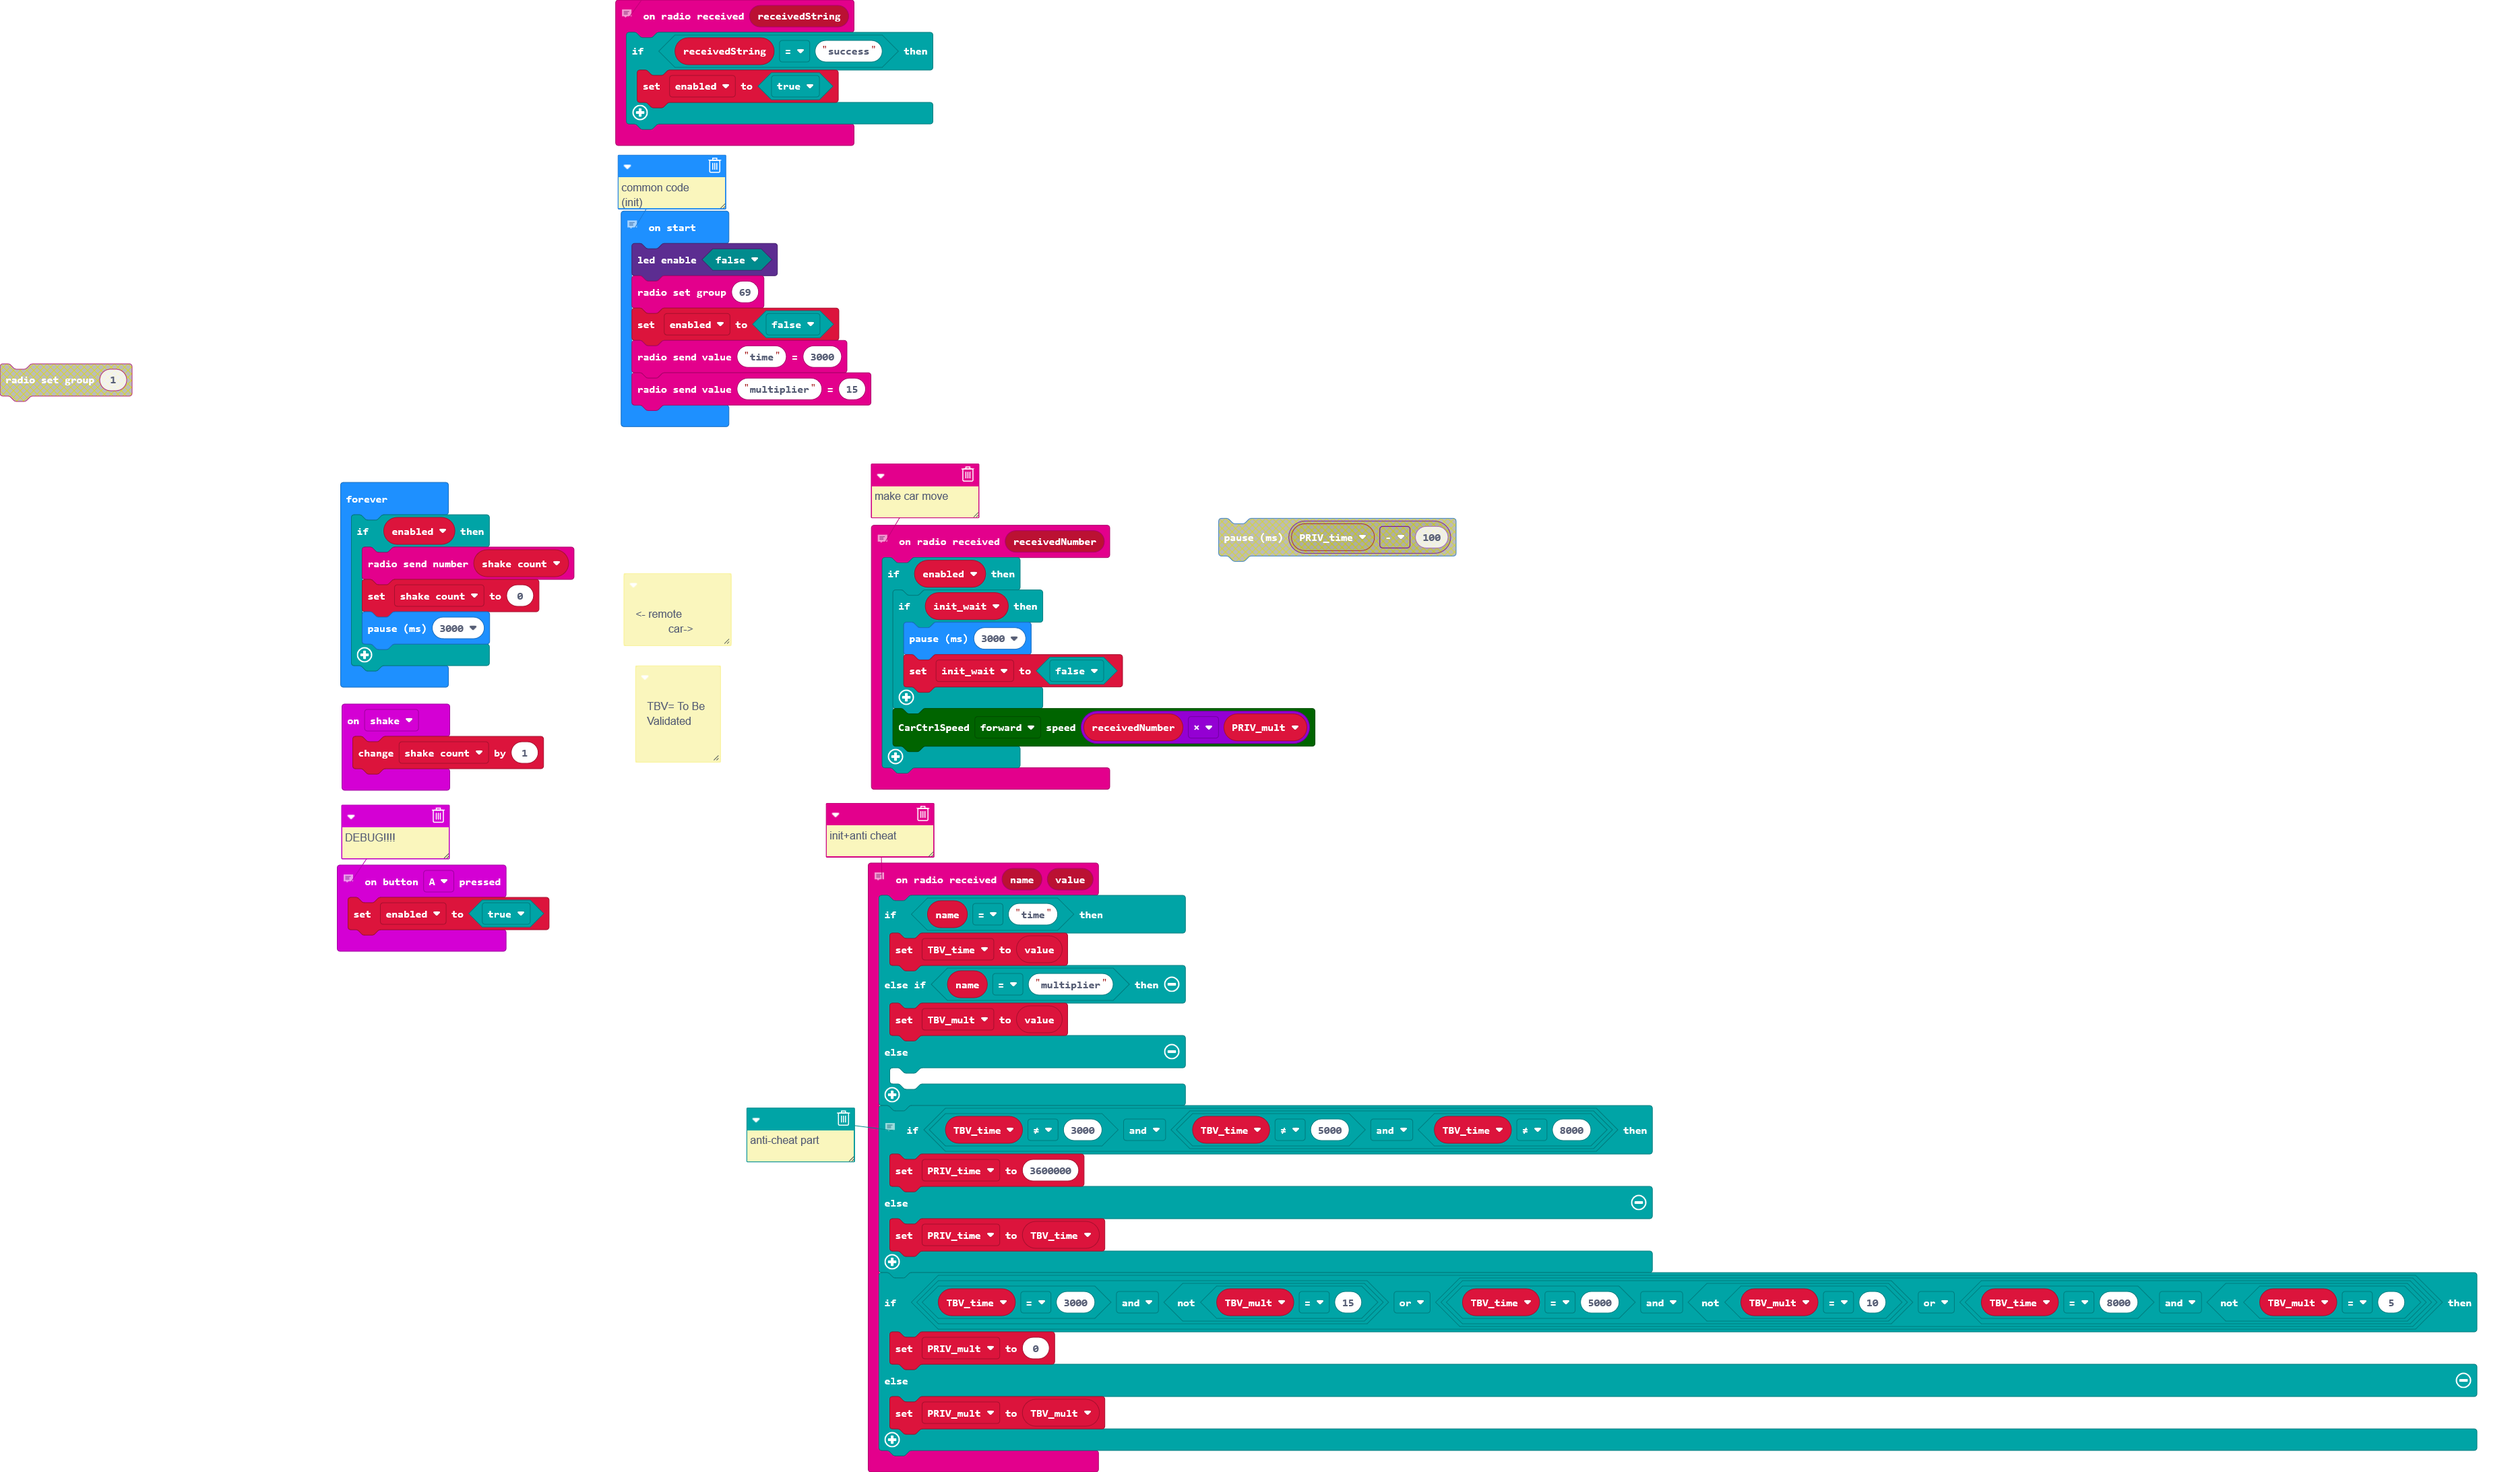
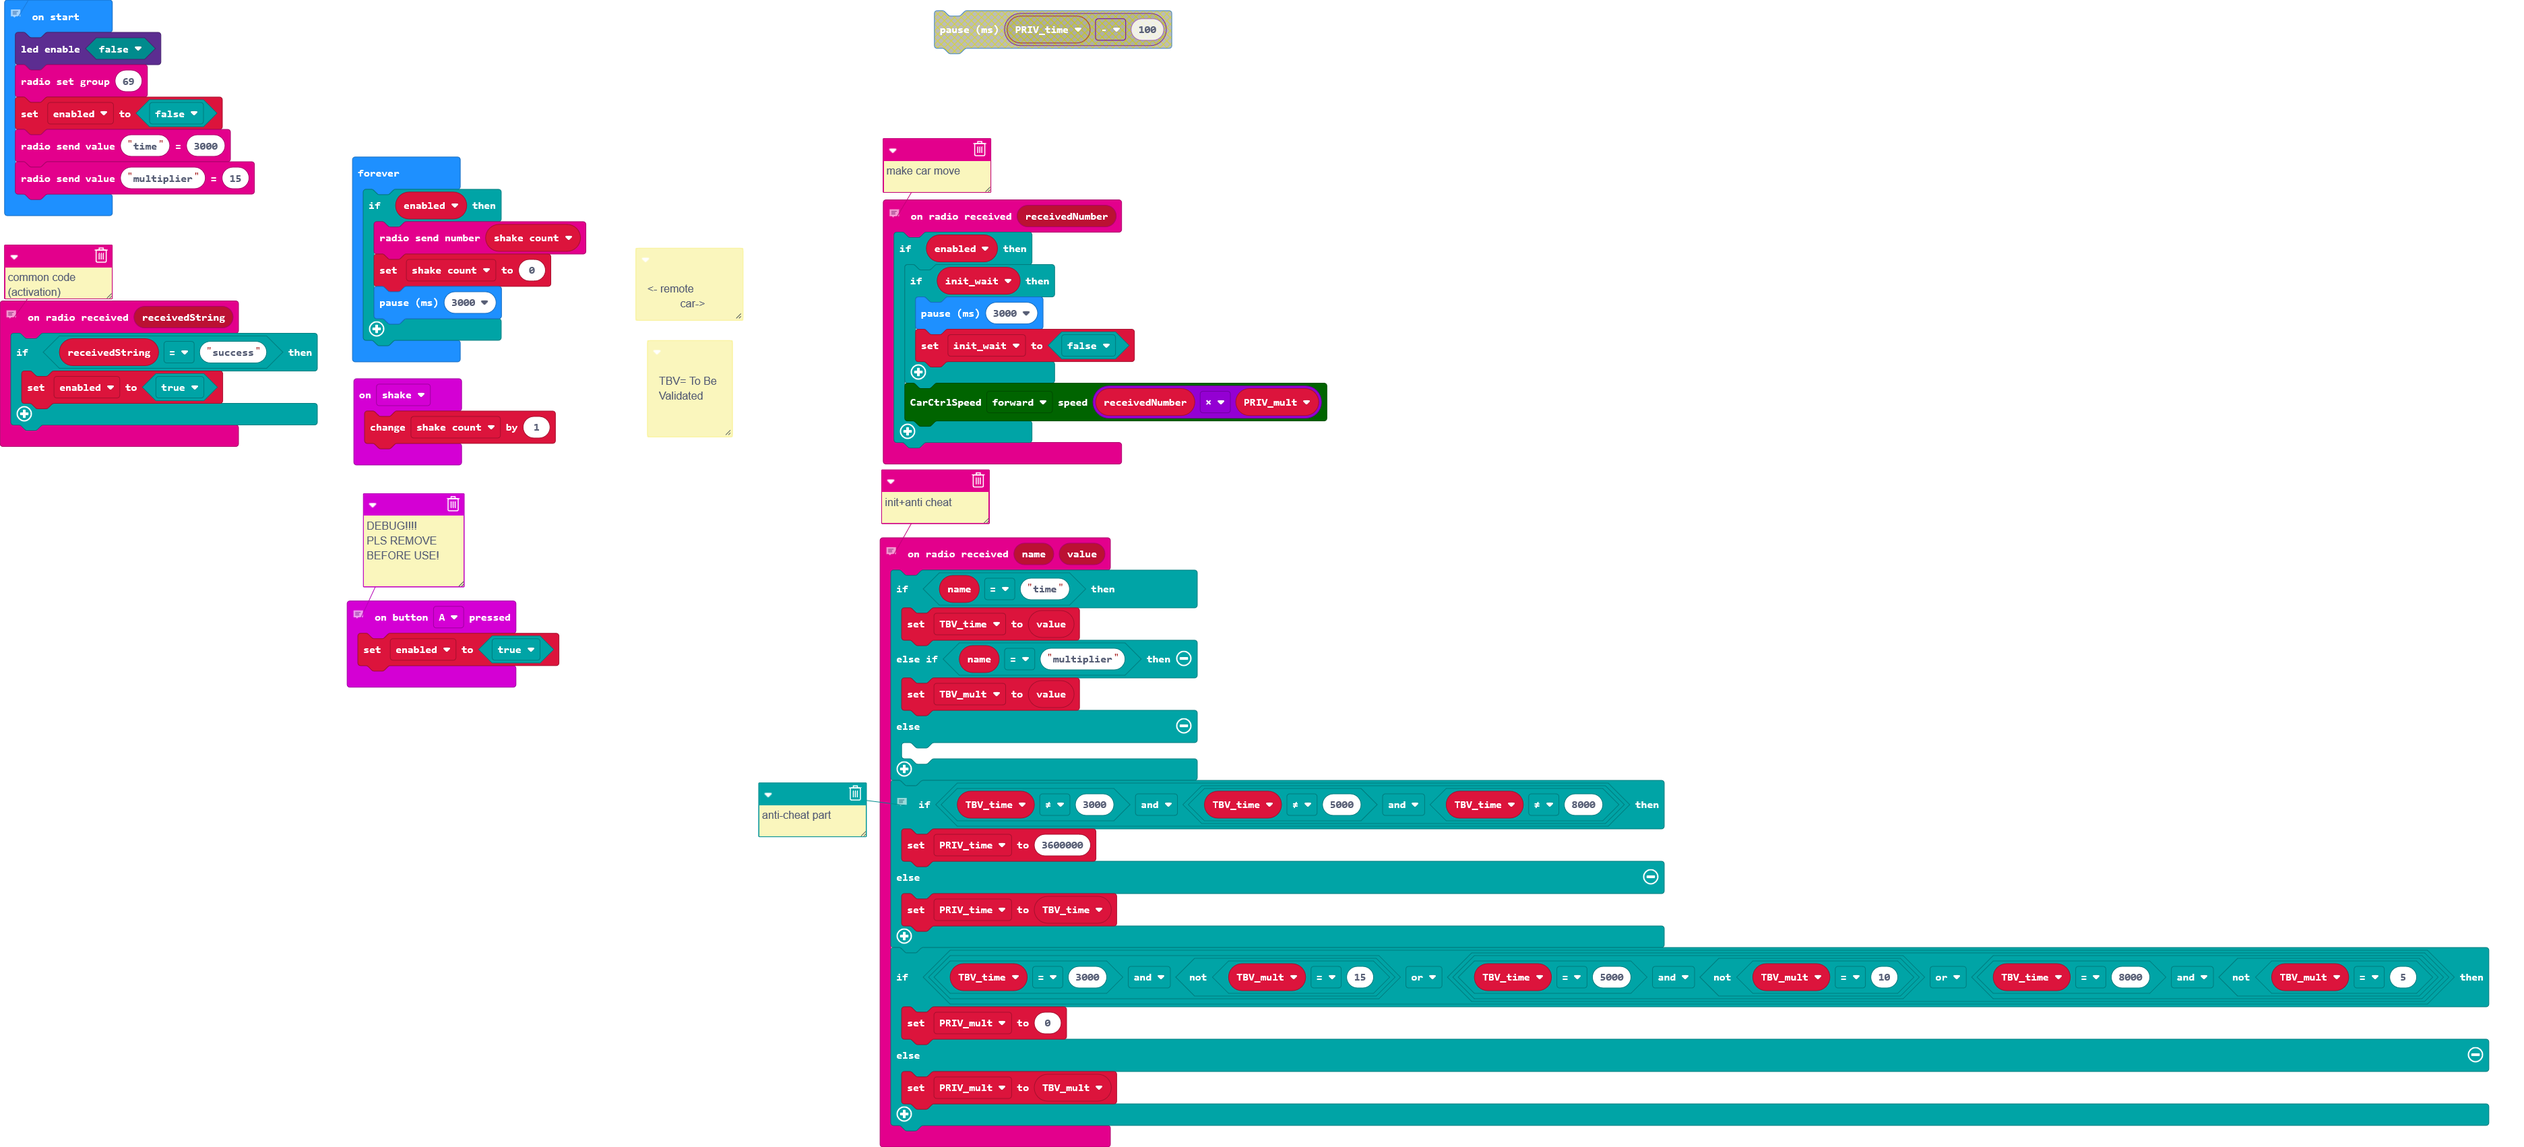
Update main.blocks, main.ts

Changed region(s): [[0.0, 0.0, 0.9957, 1.0]]

diff --git a/main.ts b/main.ts
@@ -9,7 +9,7 @@ radio.onReceivedNumber(function (receivedNumber) {
     }
 })
 // DEBUG!!!!
-// 
+// PLS REMOVE BEFORE USE!
 input.onButtonPressed(Button.A, function () {
     enabled = true
 })
